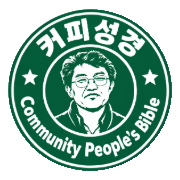
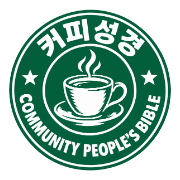
로고를 커피잔 배지로 (소개 창은 기존 얼굴 배지 유지), 주석 읽기 좋게(문단 나눔·☞ 구절 제목 줄·주제 머리글·낱말 단위 줄바꿈·‘’ 따옴표), 지원 형식 표기를 theWord·MySword·베들레헴(.bdb .dct .sdb)으로

Changed region(s): [[0.0278, 0.0278, 0.9722, 0.9722], [0.1389, 0.3889, 0.1944, 0.4722]]

diff --git a/index.html b/index.html
@@ -424,6 +424,13 @@
   /* 주석 */
   .entry { font: calc(var(--fs) - 1px)/1.85 var(--read); max-width: 44em; padding-bottom: 28px; margin-bottom: 28px; border-bottom: 1px solid var(--line); }
   .entry:last-child { border-bottom: 0; }
+  /* 주석 본문: 한글은 낱말 중간에서 줄을 바꾸지 않음, 문단 사이를 띄움 */
+  .entry .note { line-height: 1.8; word-break: keep-all; overflow-wrap: anywhere; max-width: 40em; }
+  .entry .note p { margin: 0 0 .7em; }
+  .entry .note p.pt { margin: 1.4em 0 .35em; color: var(--accent); }  .entry .note p:first-child { margin-top: 0; }
+  .entry .note p.topic { margin: 0 0 .15em; font: 600 .84em/1.6 var(--sans); color: var(--muted); }
+  .entry .note p.topic + p:not(.topic) { margin-top: .9em; }
+  .entry .note .lost { color: var(--muted); font-size: .72em; opacity: .7; }
   .entry h3 { font: 700 13px var(--sans); color: var(--accent); margin: 0 0 10px -10px; padding: 5px 10px; border-radius: 4px; display: inline-block; letter-spacing: -.005em; transition: background .2s; }
   .entry.on h3 { background: var(--accent-soft); }
   .entry :is(a[data-ref], a[data-strong]) { color: var(--accent); text-decoration: none; border-bottom: 1px solid color-mix(in srgb, var(--accent) 35%, transparent); }
@@ -800,7 +807,7 @@
   <button id="presetMenu" class="mobile-only">내 세팅<small>보는 구성을 두 가지로 저장해 두고 바꾸기</small></button>
   <h6>성경·주석 파일</h6>
   <button id="addFolder">폴더 열기<small>성경·주석·사전 파일을 모아 둔 폴더를 고르면 한 번에 추가</small></button>
-  <button id="addFiles">파일 선택<small>theWord·Bible Analyzer·MySword·베들레헴 성경, 주석, 사전</small></button>
+  <button id="addFiles">파일 선택<small>theWord·MySword·베들레헴 성경, 주석, 사전</small></button>
   <button id="manageBtn">파일 관리<small>불러온 성경·주석·사전을 골라서 지우기</small></button>
   <button id="fmtBtn">지원하는 파일 형식<small>어떤 확장자를 넣을 수 있는지</small></button>
   <h6 class="drive-only">구글 드라이브</h6>
@@ -836,13 +843,13 @@
 <div class="pop" id="manageBox" role="dialog" aria-label="파일 관리"></div>
 <div class="pop" id="verBox" role="dialog" aria-label="번역본 고르기"></div>
 <div class="pop" id="aboutBox" role="dialog" aria-label="커피성경 소개">
-  <img class="about-badge" src="icons/icon-192.png" alt="">
+  <img class="about-badge" src="icons/badge-face.png" alt="">
   <b class="about-name">커피성경</b>
   <p class="about-en">Community People's Bible</p>
   <p>커피성경은 <b>커</b>뮤니티 <b>피</b>플을 위한 <b>성경</b>이에요. 가지고 있는 성경·주석·원어 사전을 한곳에 모아, 여러 번역을 나란히 보고 원어까지 함께 묵상할 수 있게 만들었습니다.</p>
   <dl class="about-people"><dt>기획</dt><dd>이성진 목사</dd><dt>개발</dt><dd>노나연</dd><dt>로고 디자인</dt><dd>차주은</dd></dl>
   <p class="about-coffee">커피성경이 말씀 묵상에 도움이 되셨다면,<br><b>커피 한 잔</b> 사주세요!</p>
-  <p class="about-note">무료 배포 버전으로, 일부 오류가 있을 수 있습니다.<br>배포 <span id="buildAt">2026-10-18 14:08</span></p>
+  <p class="about-note">무료 배포 버전으로, 일부 오류가 있을 수 있습니다.<br>배포 <span id="buildAt">2026-10-20 11:32</span></p>
 </div>
 <div class="pop" id="guideBox" role="dialog" aria-label="사용설명서">
   <div class="guide-head"><b>커피성경 사용설명서</b><span class="guide-acts"><button class="btn sm" data-guide-link title="이 사용설명서를 바로 여는 링크 복사">링크 복사</button><button class="ws-close" data-close aria-label="닫기"></button></span></div>
@@ -860,7 +867,7 @@
       <li><b>파일 선택</b>: 몇 개만 넣을 때 써요. 여러 개를 한꺼번에 고를 수 있어요.</li>
       <li><b>구글 드라이브에서</b>: 드라이브에 <b>커피성경</b> 폴더를 만들고 파일을 넣어 두면, 어느 기기에서나 로그인만으로 불러와요. (아래 <a href="#" data-goto="drive">구글 드라이브</a>)</li>
     </ol>
-    <p>넣을 수 있는 파일은 <b>설정 › 지원하는 파일 형식</b>에서 볼 수 있어요. theWord(.ont .ot .nt .cmt.twm .gbk.twm .dct.twm), Bible Analyzer(.bdb .dct), MySword(.bbl.mybible), 베들레헴(.sdb, 원전분해 포함)을 읽어요. 암호화된 파일(.ontx 등)은 열 수 없어요.</p>
+    <p>넣을 수 있는 파일은 <b>설정 › 지원하는 파일 형식</b>에서 볼 수 있어요. theWord(.ont .ot .nt .cmt.twm .gbk.twm .dct.twm), MySword(.bbl.mybible), 베들레헴(.bdb .dct .sdb)을 읽어요. 암호화된 파일(.ontx 등)은 열 수 없어요.</p>
     <p><b>앱으로 설치</b>(설정 › 도움말)를 하면 바탕화면·홈 화면 아이콘으로 열리고, 인터넷이 없어도 열려요.</p></section>
 <section id="g-screen"><h3>화면 구성</h3>
     <figure><img src="img/guide/screen.jpg" alt="PC: 왼쪽 막대 · 성경 칸 · 자료 칸" loading="lazy"><figcaption>PC: 왼쪽 막대 · 성경 칸 · 자료 칸</figcaption></figure><figure class="phone"><img src="img/guide/mobile.jpg" alt="모바일: 위 성경 칸 · 아래 자료 칸 · 아래 막대" loading="lazy"><figcaption>모바일: 위 성경 칸 · 아래 자료 칸 · 아래 막대</figcaption></figure>
@@ -1233,9 +1240,8 @@ function step(d) {
 /* ---------- 넣을 수 있는 파일 형식 (첫 화면, 설정 → 지원하는 파일 형식, 안 맞는 파일 알림에 씀) ---------- */
 const FORMATS = `<table class="fmt"><thead><tr><th>프로그램</th><th>성경</th><th>주석</th><th>원어 사전</th></tr></thead><tbody>
   <tr><th>theWord</th><td data-l="성경"><code>.ont</code> <code>.ot</code> <code>.nt</code></td><td data-l="주석"><code>.cmt.twm</code></td><td data-l="원어 사전"><code>.gbk.twm</code> <code>.dct.twm</code></td></tr>
-  <tr><th>Bible Analyzer</th><td data-l="성경"><code>.bdb</code></td><td data-l="주석">없음</td><td data-l="원어 사전"><code>.dct</code></td></tr>
   <tr><th>MySword</th><td data-l="성경"><code>.bbl.mybible</code></td><td data-l="주석">없음</td><td data-l="원어 사전">없음</td></tr>
-  <tr><th>베들레헴</th><td data-l="성경"><code>.sdb</code></td><td data-l="주석"><code>.sdb</code> 원전분해</td><td data-l="원어 사전">없음</td></tr></tbody></table>
+  <tr><th>베들레헴</th><td data-l="성경"><code>.bdb</code> <code>.sdb</code></td><td data-l="주석"><code>.sdb</code> 원전분해</td><td data-l="원어 사전"><code>.dct</code></td></tr></tbody></table>
   <p class="fmt-note">암호화된 유료 모듈(<code>.ontx</code> <code>.ntx</code> <code>.otx</code> 등)은 열 수 없습니다.</p>`;
 const FORMATS_TEXT = '성경: .ont .ot .nt .bdb .bbl.mybible .sdb\n주석: .cmt.twm .sdb(원전분해)\n원어 사전: .gbk.twm .dct.twm .dct';
 
@@ -1720,9 +1726,19 @@ function commHtml(name) {
   // TEXT로 받으면 UTF-8 디코딩에서 RVF 바이트가 깨지므로 blob으로 받음
   const list = rows(db, 'select r.fvi, r.tvi, cast(c.data as blob) from bible_refs r join content c using(topic_id) where r.bi=? and r.ci=? order by r.fvi, r.topic_id', [b, c]);
   return list.length
-    ? list.map(([f, t, d]) => `<article class="entry" data-f="${f}" data-t="${t}"><h3>${BOOKS[b - 1]} ${c}:${f === t ? f : f + '-' + t}</h3><div>${toHtml(d)}</div></article>`).join('')
+    ? list.map(([f, t, d]) => `<article class="entry" data-f="${f}" data-t="${t}"><h3>${BOOKS[b - 1]} ${c}:${f === t ? f : f + '-' + t}</h3><div class="note">${commFmt(toHtml(d))}</div></article>`).join('')
     : `<p class="empty small">${esc(nm(name))}에는 ${BOOKS[b - 1]} ${c}장 주석이 없습니다.</p>`;
 }
+// 주석 읽기 좋게: 줄바꿈(<br>)마다 문단으로 나눠 사이를 띄우고(빈 줄은 하나로), "☞" 로 시작하는 풀이 문단은 위를 더 띄움,
+// "주제1:" 같은 줄은 작은 머리글로. 옛 파일의 `낱말' 따옴표는 ‘낱말’로, 원어 글자가 빠진 자리 (*) 는 흐리게
+const commFmt = html => html
+  .replace(/`([^`'<\n]{1,120})'/g, '‘$1’')
+  .replace(/\(\*\)/g, '<span class="lost" title="원본 파일에서 원어 글자가 빠진 자리">(*)</span>')
+  .replace(/(<span style="font-weight:bold;">☞[^<]*<\/span>)<span style="">\s*-\s*/g, '$1<br><span style="">') // "☞본문 구절- 풀이" → 구절을 제목 줄로
+  .split(/(?:<br>\s*)+/)
+  .filter(p => p.replace(/<[^>]*>/g, '').trim())
+  .map(p => { const s = p.replace(/<[^>]*>/g, '').trim(); return `<p${/^☞/.test(s) ? ' class="pt"' : /^주제\s*\d*\s*:/.test(s) ? ' class="topic"' : ''}>${p}</p>`; })
+  .join('');
 
 let tabHide = prefs.get('tabHide', []); // 탭 줄에서 뺀 주석·사전 ["comm:이름", "dict:이름"]
 const renderTabBox = () => $('tabBox').innerHTML = '<b>탭 줄에 보일 자료</b><p class="help">체크한 것만 위 탭 줄에 보여요.</p>' +

diff --git a/sw.js b/sw.js
@@ -1,7 +1,7 @@
 // 설치형 웹앱: 인터넷이 없어도 뷰어 화면이 열리도록 화면 파일만 보관.
 // (성경·주석·사전 데이터는 브라우저 저장소(IndexedDB)에 따로 있음)
-const CACHE = 'viewer-v2';
-const SHELL = ['./', 'index.html', 'decode.js', 'manifest.webmanifest', 'vendor/sql-wasm.js', 'vendor/sql-wasm-bin.js', 'vendor/pretendard.css', 'vendor/icons.js', 'icons/icon-192.png', 'img/bg-coffee.jpg'];
+const CACHE = 'viewer-v3';
+const SHELL = ['./', 'index.html', 'decode.js', 'manifest.webmanifest', 'vendor/sql-wasm.js', 'vendor/sql-wasm-bin.js', 'vendor/pretendard.css', 'vendor/icons.js', 'icons/icon-192.png', 'icons/badge-face.png', 'img/bg-coffee.jpg'];
 
 self.addEventListener('install', e => {
   e.waitUntil(caches.open(CACHE).then(c => c.addAll(SHELL)));

diff --git a/README.md b/README.md
@@ -7,9 +7,8 @@
 | 앱 | 성경 | 주석 | 사전 |
 |---|---|---|---|
 | theWord | `.ont` `.ot` `.nt` | `.cmt.twm` | `.gbk.twm` `.dct.twm` |
-| Bible Analyzer | `.bdb` | | `.dct` |
 | MySword | `.bbl.mybible` | | |
-| 베들레헴 | `.sdb` | `.sdb` 원전분해 (주석 칸 탭) | |
+| 베들레헴 | `.bdb` `.sdb` | `.sdb` 원전분해 (주석 칸 탭) | `.dct` |
 
 ## 사용법
 
